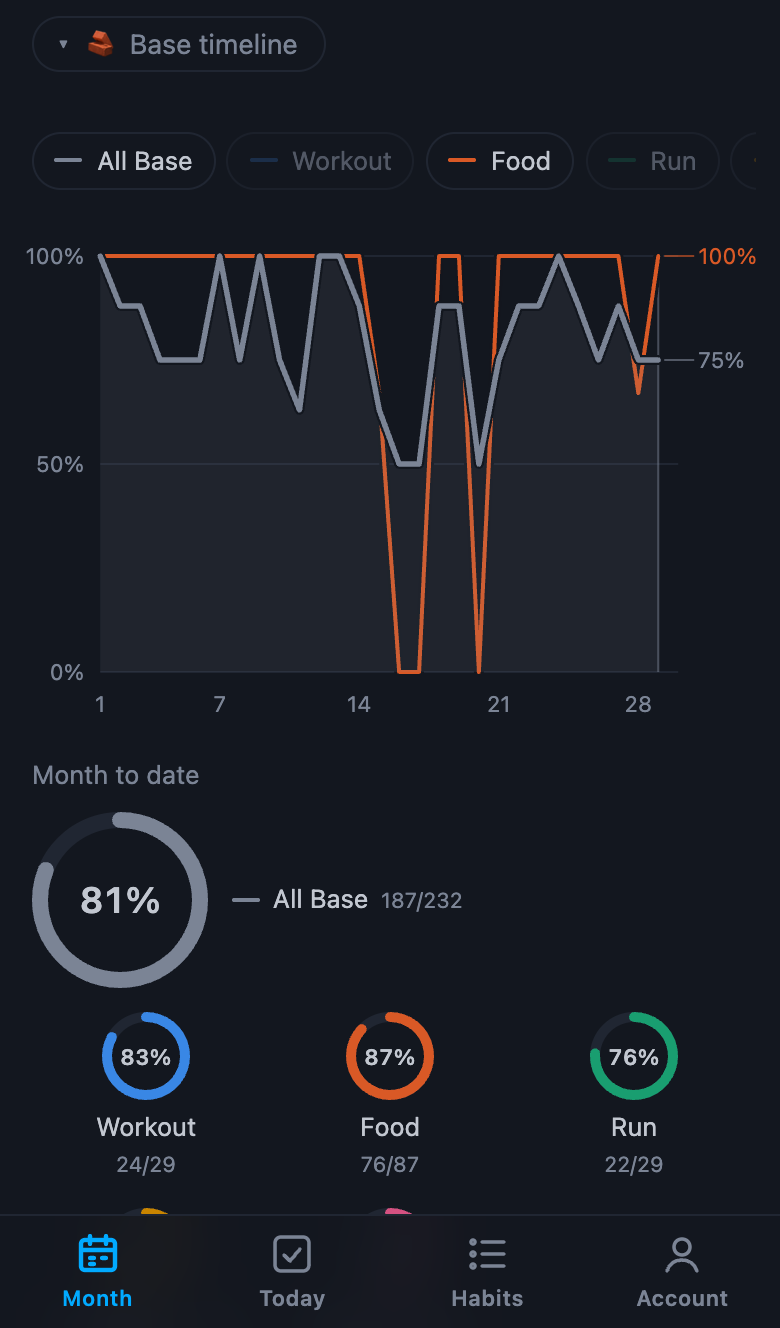
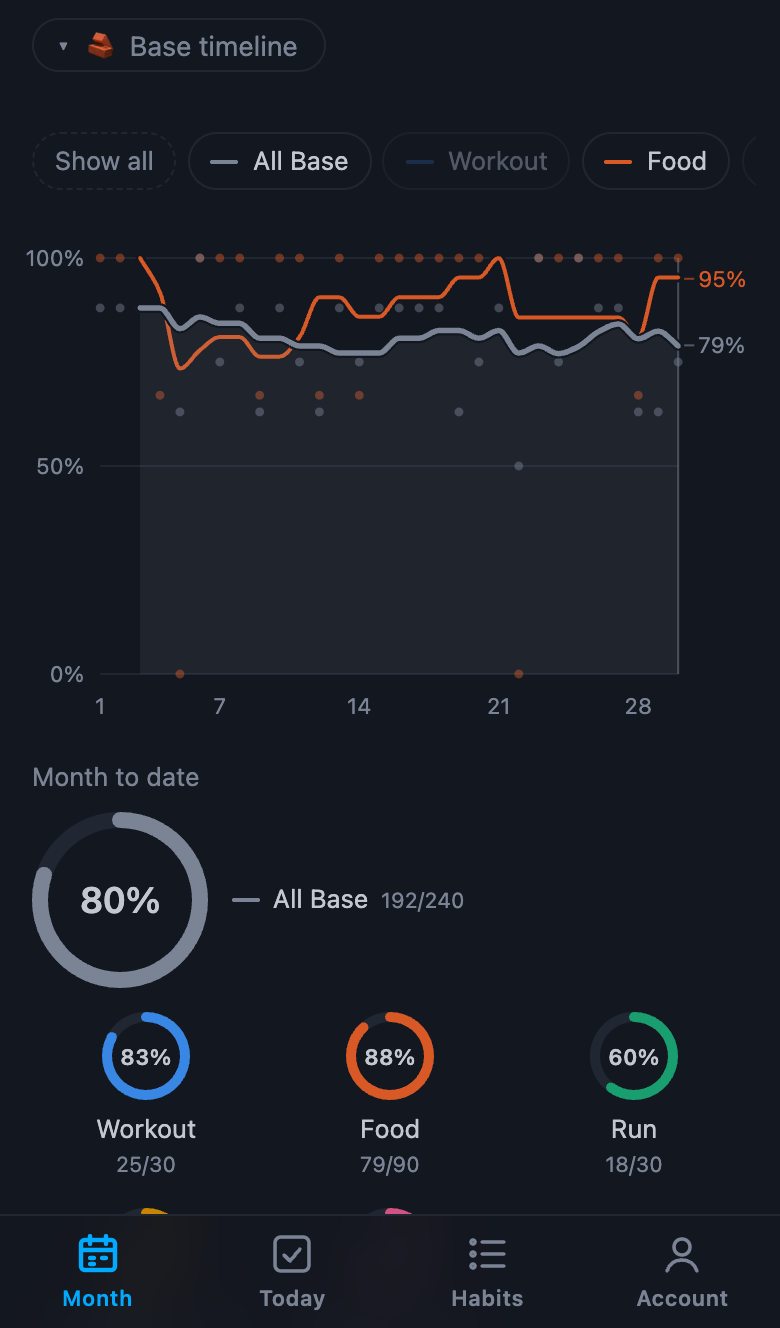
Timelines: smooth 7-day-average trend lines, daily dots, Show all / Hide all
- Lines show a trailing 7-day average, drawn as a monotone curve (smooth, but
  never overshooting the data or leaving 0–100%); a line starts once 3 days are
  in its window. Each day's own value is a faint dot while 1–2 lines are shown.
- Tooltip: the average plus that day's % and ticks.
- Legend starts with a "Hide all" / "Show all" toggle; hiding keeps the overall line.
- Soft fill under the overall line on every screen.
- README: new phone timeline screenshot, feature line updated.

diff --git a/app/static/timeline.js b/app/static/timeline.js
@@ -21,6 +21,43 @@ window.habitSeries = (root, maxSlots) => {
     }));
 };
 
+// Smooth line through the points that never overshoots them (monotone cubic, as d3's
+// curveMonotoneX): no invented peaks, never above 100% or below 0%.
+function monotonePath(pts) {
+  const n = pts.length;
+  if (n < 3) return pts.map(([px, py], k) => (k ? "L" : "M") + px + "," + py).join("");
+  const dx = [], m = [];
+  for (let i = 0; i < n - 1; i++) {
+    dx[i] = pts[i + 1][0] - pts[i][0];
+    m[i] = (pts[i + 1][1] - pts[i][1]) / dx[i];
+  }
+  const t = [m[0]];
+  for (let i = 1; i < n - 1; i++) {
+    t[i] = m[i - 1] * m[i] <= 0 ? 0 : (3 * (dx[i - 1] + dx[i])) / ((2 * dx[i] + dx[i - 1]) / m[i - 1] + (dx[i] + 2 * dx[i - 1]) / m[i]);
+  }
+  t[n - 1] = m[n - 2];
+  let d = `M${pts[0][0]},${pts[0][1]}`;
+  for (let i = 0; i < n - 1; i++) {
+    const h = dx[i] / 3;
+    d += `C${pts[i][0] + h},${pts[i][1] + t[i] * h} ${pts[i + 1][0] - h},${pts[i + 1][1] - t[i + 1] * h} ${pts[i + 1][0]},${pts[i + 1][1]}`;
+  }
+  return d;
+}
+
+// Consecutive non-null points, so a gap (days ahead) breaks the line instead of bridging it.
+function runs(points) {
+  const out = [];
+  let cur = [];
+  for (const p of points) {
+    if (p === null) {
+      if (cur.length) out.push(cur);
+      cur = [];
+    } else cur.push(p);
+  }
+  if (cur.length) out.push(cur);
+  return out;
+}
+
 document.querySelectorAll(".category .timeline").forEach((section) => {
   const root = section.closest(".category");
   const svg = section.querySelector(".timeline-svg");
@@ -72,7 +109,15 @@ document.querySelectorAll(".category .timeline").forEach((section) => {
         return { ...c, value: pct(c, day) };
       }),
     };
-    series = [all, ...perHabit];
+    // Lines show a trailing 7-day average (the trend); each day's own value stays as a faint dot.
+    // The line starts once 3 days are in the window: a 1-day "average" is just that day's jump.
+    series = [all, ...perHabit].map((s) => {
+      s.points.forEach((p, i) => {
+        const week = s.points.slice(Math.max(0, i - 6), i + 1).filter((q) => q.value !== null);
+        p.avg = p.value === null || week.length < 3 ? null : week.reduce((sum, q) => sum + q.value, 0) / week.length;
+      });
+      return s;
+    });
   }
 
   function el(name, attrs, parent = svg) {
@@ -82,25 +127,42 @@ document.querySelectorAll(".category .timeline").forEach((section) => {
     return node;
   }
 
+  let legendBuilt = false;
   function buildLegend() {
-    if (phone.matches) habits.forEach((h) => hidden.add(h.key));
-    legend.replaceChildren(
-      ...[overall, ...habits].map((s) => {
-        const b = document.createElement("button");
-        b.type = "button";
-        b.setAttribute("aria-pressed", String(!hidden.has(s.key)));
-        const key = document.createElement("span");
-        key.className = "key";
-        key.style.background = s.color;
-        b.append(key, document.createTextNode(s.name));
-        b.addEventListener("click", () => {
-          hidden.has(s.key) ? hidden.delete(s.key) : hidden.add(s.key);
-          b.setAttribute("aria-pressed", String(!hidden.has(s.key)));
-          render();
-        });
-        return b;
-      }),
-    );
+    if (phone.matches && !legendBuilt) habits.forEach((h) => hidden.add(h.key));
+    legendBuilt = true;
+    // "Hide all" keeps only the category's overall line; "Show all" brings every line back.
+    const toggle = document.createElement("button");
+    toggle.type = "button";
+    toggle.className = "toggle-all";
+    const chips = [overall, ...habits].map((s) => {
+      const b = document.createElement("button");
+      b.type = "button";
+      b.dataset.key = s.key;
+      const key = document.createElement("span");
+      key.className = "key";
+      key.style.background = s.color;
+      b.append(key, document.createTextNode(s.name));
+      b.addEventListener("click", () => {
+        hidden.has(s.key) ? hidden.delete(s.key) : hidden.add(s.key);
+        sync();
+      });
+      return b;
+    });
+    const sync = () => {
+      for (const b of chips) b.setAttribute("aria-pressed", String(!hidden.has(b.dataset.key)));
+      const showAll = [overall, ...habits].some((s) => hidden.has(s.key));
+      toggle.textContent = showAll ? "Show all" : "Hide all";
+      toggle.title = showAll ? "Show every habit's line" : "Keep only the overall line";
+      render();
+    };
+    toggle.addEventListener("click", () => {
+      if (toggle.textContent === "Show all") hidden.clear();
+      else habits.forEach((h) => hidden.add(h.key));
+      sync();
+    });
+    legend.replaceChildren(toggle, ...chips);
+    sync();
   }
 
   function render() {
@@ -140,17 +202,20 @@ document.querySelectorAll(".category .timeline").forEach((section) => {
     }
 
     // Draw in reverse so habit 1 sits on top; the overall line stays underneath.
+    const dotted = visible.length <= 2; // daily dots only while they don't turn into confetti
     for (const s of [...visible].reverse()) {
-      const d = s.points
-        .map((p, i) => (p.value === null ? null : `${x(i)},${y(p.value)}`))
-        .filter(Boolean)
-        .map((pt, k) => (k ? "L" : "M") + pt)
-        .join("");
-      if (!d) continue;
+      const parts = runs(s.points.map((p, i) => (p.avg === null ? null : [x(i), y(p.avg)])));
+      if (!parts.length) continue;
+      const d = parts.map(monotonePath).join("");
       if (s.key === "overall") {
-        // Soft fill under the overall line (shown on phones only, see CSS).
-        const pts = s.points.map((p, i) => (p.value === null ? null : i)).filter((i) => i !== null);
-        el("path", { class: "area", d: `${d}L${x(pts.at(-1))},${y(0)}L${x(pts[0])},${y(0)}Z` });
+        for (const r of parts) {
+          el("path", { class: "area", d: `${monotonePath(r)}L${r.at(-1)[0]},${y(0)}L${r[0][0]},${y(0)}Z` });
+        }
+      }
+      if (dotted) {
+        s.points.forEach((p, i) => {
+          if (p.value !== null) el("circle", { class: "day-dot", cx: x(i), cy: y(p.value), r: 2.2, fill: s.color });
+        });
       }
       el("path", { class: "halo", d });
       el("path", { class: s.key === "overall" ? "line overall" : "line", d, stroke: s.color });
@@ -160,9 +225,9 @@ document.querySelectorAll(".category .timeline").forEach((section) => {
       // Spread end labels so converging lines (e.g. several at 0%) don't collide; a leader ties each to its line.
       // Each line is labelled at its last plotted day (today may not be plotted yet).
       const labels = visible
-        .map((s) => ({ s, i: s.points.findLastIndex((p) => p.value !== null) }))
+        .map((s) => ({ s, i: s.points.findLastIndex((p) => p.avg !== null) }))
         .filter((l) => l.i >= 0)
-        .map((l) => ({ ...l, v: l.s.points[l.i].value }))
+        .map((l) => ({ ...l, v: Math.round(l.s.points[l.i].avg) }))
         .map((l) => ({ ...l, ly: y(l.v), ty: y(l.v) }))
         .sort((a, b) => a.ly - b.ly);
       for (let k = 1; k < labels.length; k++) labels[k].ty = Math.max(labels[k].ty, labels[k - 1].ty + 14);
@@ -192,7 +257,7 @@ document.querySelectorAll(".category .timeline").forEach((section) => {
     hover.cross.setAttribute("x2", x(i));
     hover.cross.setAttribute("visibility", "visible");
     for (const { s, node } of hover.dots) {
-      const v = s.points[i].value;
+      const v = s.points[i].avg;
       node.setAttribute("visibility", v === null ? "hidden" : "visible");
       if (v !== null) {
         node.setAttribute("cx", x(i));
@@ -202,7 +267,8 @@ document.querySelectorAll(".category .timeline").forEach((section) => {
 
     const date = document.createElement("div");
     date.className = "tip-date";
-    date.textContent = days[i].date.toLocaleDateString(undefined, { weekday: "short", day: "numeric", month: "short" });
+    date.textContent =
+      days[i].date.toLocaleDateString(undefined, { weekday: "short", day: "numeric", month: "short" }) + " · 7-day average";
     tip.replaceChildren(date);
     for (const s of hover.visible) {
       const p = s.points[i];
@@ -212,11 +278,11 @@ document.querySelectorAll(".category .timeline").forEach((section) => {
       key.className = "key";
       key.style.background = s.color;
       const value = document.createElement("b");
-      value.textContent = p.value === null ? "—" : p.value + "%";
+      value.textContent = p.avg === null ? "—" : Math.round(p.avg) + "%";
       const name = document.createElement("span");
       name.textContent = s.name;
       const count = document.createElement("span");
-      count.textContent = `${p.done}/${p.target}`;
+      count.textContent = p.value === null ? "—" : `that day ${p.value}% · ${p.done}/${p.target}`;
       row.append(key, value, name, count);
       tip.appendChild(row);
     }

diff --git a/app/static/style.css b/app/static/style.css
@@ -154,7 +154,12 @@ table.month .future { opacity: .55; }
 .timeline-svg .axis-label { fill: var(--pico-muted-color); font-size: 11px; }
 .timeline-svg .halo { fill: none; stroke: var(--pico-background-color); stroke-width: 5; stroke-linejoin: round; stroke-linecap: round; }
 .timeline-svg .line { fill: none; stroke-width: 2; stroke-linejoin: round; stroke-linecap: round; }
-.timeline-svg .area { display: none; }
+.timeline-svg .area { fill: var(--series-overall); opacity: .12; }
+.timeline-svg .line.overall { stroke-width: 2.5; }
+.timeline-svg .day-dot { opacity: .45; }
+/* "Show all" / "Hide all": a quieter, dashed chip at the start of the legend */
+.timeline-legend .toggle-all { border-style: dashed; color: var(--ink-muted); }
+.timeline-legend .toggle-all:hover { color: var(--ink); }
 .timeline-svg .leader { stroke-width: 1; opacity: .6; }
 .timeline-svg .end-label { fill: var(--pico-color); font-size: 11px; }
 .timeline-svg .today-mark { stroke: var(--pico-muted-color); stroke-width: 1; opacity: .5; }
@@ -646,7 +651,6 @@ a.yc:hover, a.yc:focus-visible { outline: 1.5px solid var(--pico-color); outline
   .timeline-chart { margin-inline: -.6rem; }
   .timeline-svg { height: 250px; }
   .timeline-svg .line.overall { stroke-width: 2.75; }
-  .timeline-svg .area { display: inline; fill: var(--series-overall); opacity: .12; }
   .timeline-legend {
     flex-wrap: nowrap; overflow-x: auto; scrollbar-width: none;
     margin-inline: -.25rem; padding: .1rem .25rem;

diff --git a/README.md b/README.md
@@ -33,7 +33,7 @@ own). Add it to the home screen and it opens full screen on today's checklist, l
 - **Golden days**: double-tap a habit's box when you did it especially well, and it turns into a gold star
 - **Streaks**: a 🔥 badge once a habit is done 5+ days in a row
 - **Year at a glance**: a square per day shaded by completion, best streaks, golden and perfect days, and the most consistent habits, per category
-- **Timelines** with progress rings per category; today counts once you tick something, so an unfinished day never shows as a drop to 0%
+- **Timelines** with progress rings per category: smooth 7-day-average trend lines with each day as a faint dot, a line per habit to show or hide (or all at once); today counts once you tick something, so an unfinished day never shows as a drop to 0%
 - **Drag-and-drop** (or keyboard) reordering and per-row highlight colours
 - **Notes** in collapsible blocks (tips, ideas, comfort), editable in place and movable between blocks
 - **Light / dark theme** switch, remembered per browser
